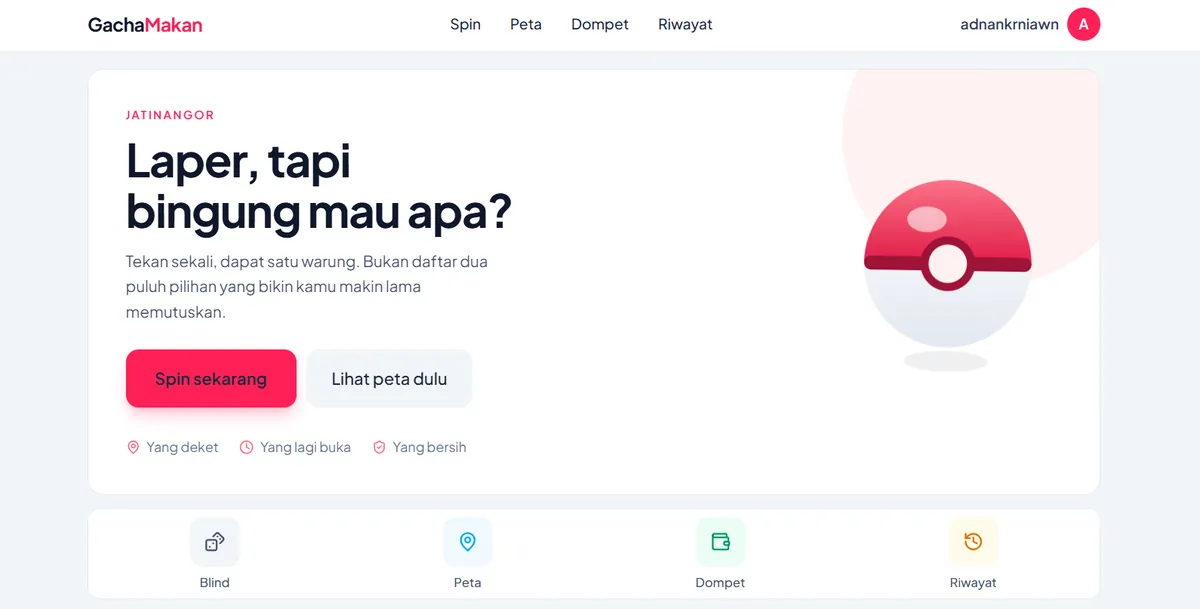
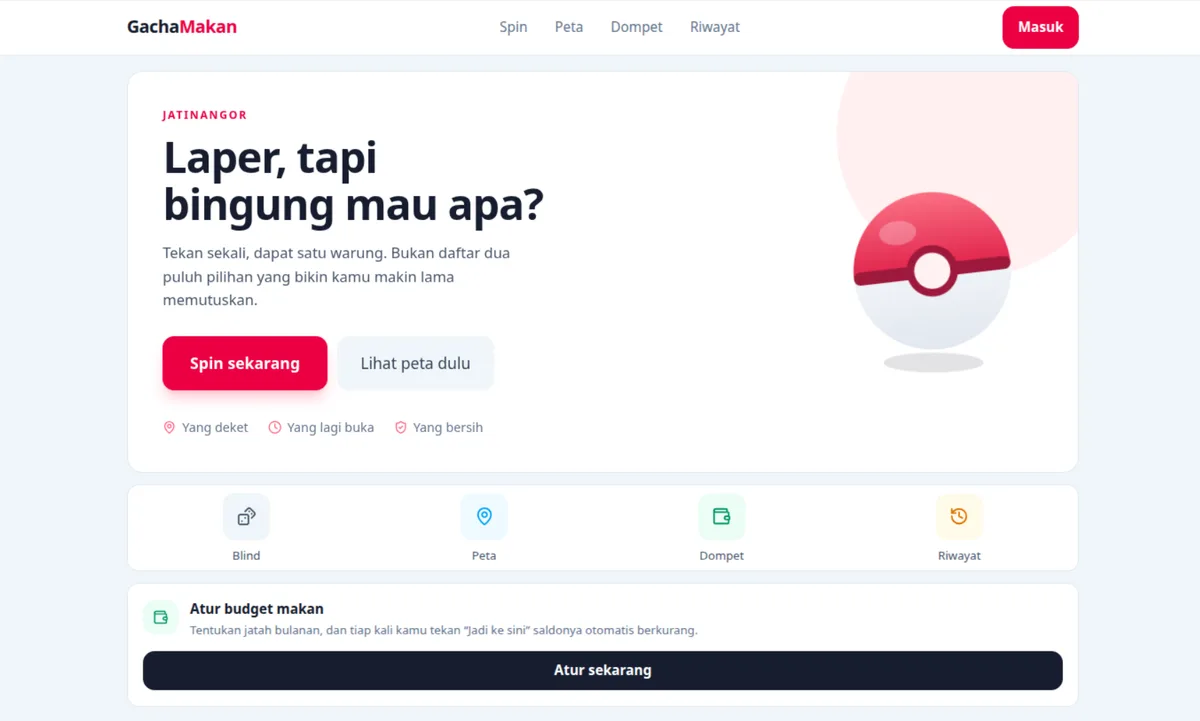
Use the new IITrack, Gacha Makan and HujanNet screenshots and stop cropping project images

diff --git a/src/sections/Projects.jsx b/src/sections/Projects.jsx
@@ -63,7 +63,7 @@ function Row({ item, current, delay, onActivate }) {
           height={item.imageH}
           loading="lazy"
           decoding="async"
-          className="bg-surface mt-6 aspect-[16/10] w-full rounded-[4px] object-cover object-top xl:pointer-fine:hidden"
+          className="bg-surface mt-6 h-auto w-full rounded-[4px] xl:pointer-fine:hidden"
         />
       )}
       {item.repo ? (
@@ -81,6 +81,8 @@ function Row({ item, current, delay, onActivate }) {
  * A ledger on the left; on xl with a mouse, a sticky preview on the right
  * crossfades to whichever row is hovered or focused. Below xl, or on touch
  * screens that cannot hover, each screenshot sits inline above its row.
+ * Screenshots are never cropped: inline they keep their own ratio, in the
+ * preview they are fitted whole.
  */
 export default function Projects() {
   const [activeId, setActiveId] = useState(PROJECTS[0].id);
@@ -115,7 +117,7 @@ export default function Projects() {
         >
           {/* Every preview is stacked in one cell; only the active one is
               visible, so switching is a crossfade rather than a swap. */}
-          <div className="bg-surface/70 relative grid aspect-[16/10] w-full max-w-[34rem] place-items-center overflow-hidden rounded-[4px] border border-white/5">
+          <div className="bg-surface/70 relative grid aspect-[16/9] w-full max-w-[34rem] place-items-center overflow-hidden rounded-[4px] border border-white/5">
             {PROJECTS.map((p) => {
               const on = p.id === activeId;
               return p.image ? (
@@ -125,7 +127,7 @@ export default function Projects() {
                   alt=""
                   loading="lazy"
                   decoding="async"
-                  className={`absolute inset-0 h-full w-full object-cover object-top transition-[opacity,transform] duration-700 ease-out ${
+                  className={`absolute inset-0 h-full w-full object-contain transition-[opacity,transform] duration-700 ease-out ${
                     on ? "scale-100 opacity-100" : "scale-[1.02] opacity-0"
                   }`}
                 />

diff --git a/src/content.js b/src/content.js
@@ -89,7 +89,7 @@ export const PROJECTS = [
     repo: "https://github.com/farrelathalla/IITrack",
     image: "/assets/proyek/iitrack.webp",
     imageW: 1200,
-    imageH: 577,
+    imageH: 675,
     imageAlt: "IITrack sign-in page for Inkubator IT, with the tagline Satu Sistem Kendali Penuh",
   },
   {
@@ -102,9 +102,9 @@ export const PROJECTS = [
     repo: "https://github.com/adnankurniawann/hujan-net",
     image: "/assets/proyek/hujannet.webp",
     imageW: 1200,
-    imageH: 570,
+    imageH: 675,
     imageAlt:
-      "HujanNet operations map: reconstructed rainfall over Puncak with microwave links, watershed status and a queue of pending alerts",
+      "HujanNet operations map: reconstructed rainfall over Puncak with microwave links, watershed status, an evacuation route and a queue of pending alerts",
   },
   {
     id: "pulihgo",
@@ -128,9 +128,9 @@ export const PROJECTS = [
     repo: "https://github.com/adnankurniawann/gacha-makan-ai",
     image: "/assets/proyek/gacha-makan.webp",
     imageW: 1200,
-    imageH: 609,
+    imageH: 721,
     imageAlt:
-      "Gacha Makan home screen: a single-tap warung picker for Jatinangor with spin and map entry points",
+      "Gacha Makan home screen: a single-tap warung picker for Jatinangor with spin, map, wallet and history",
   },
 ];
 
